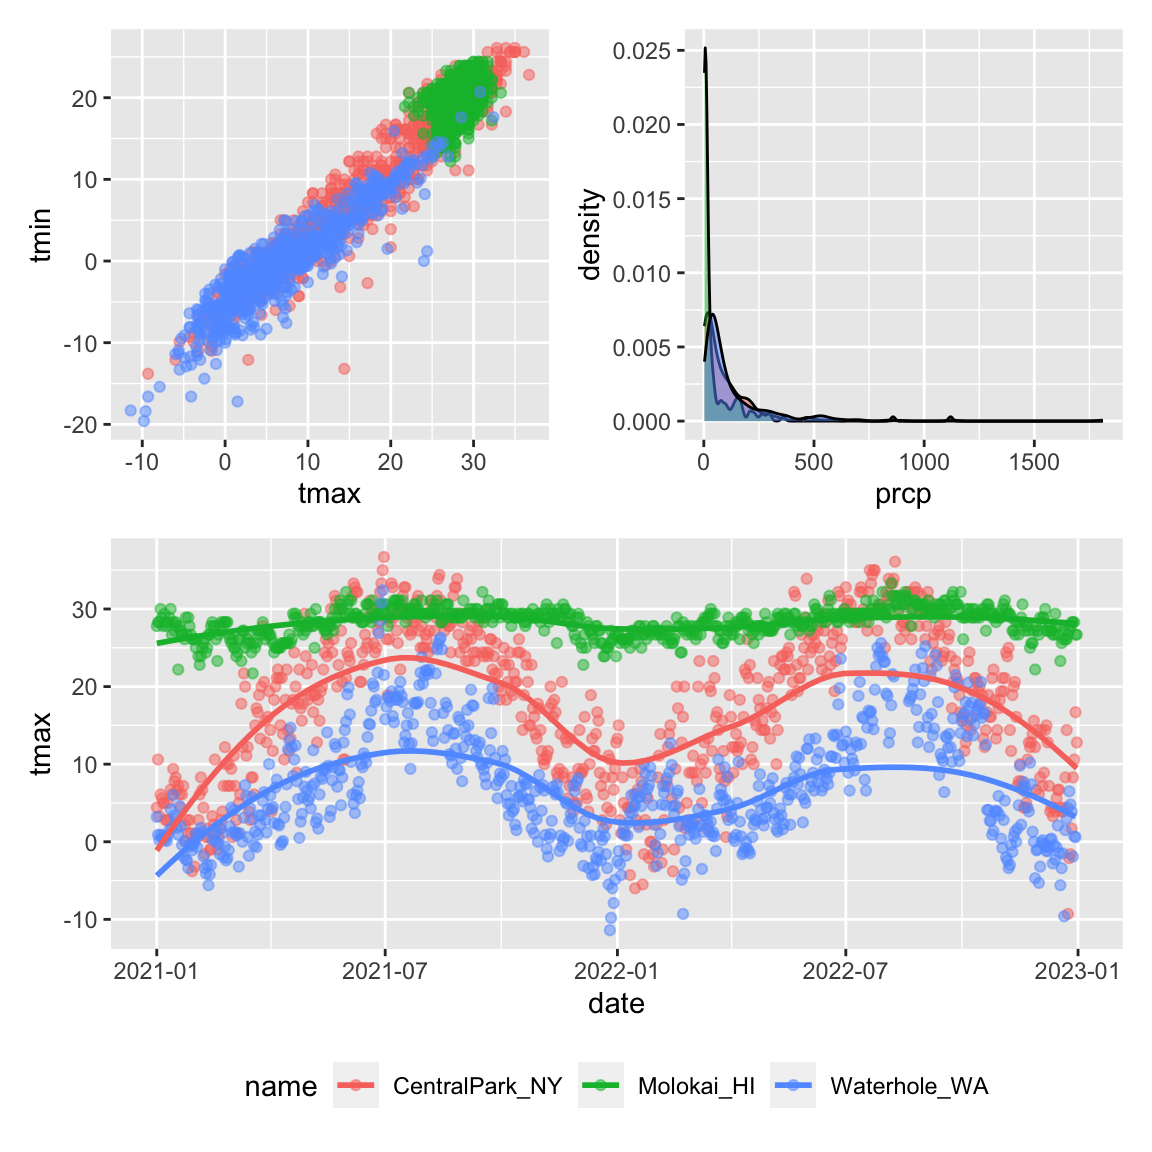
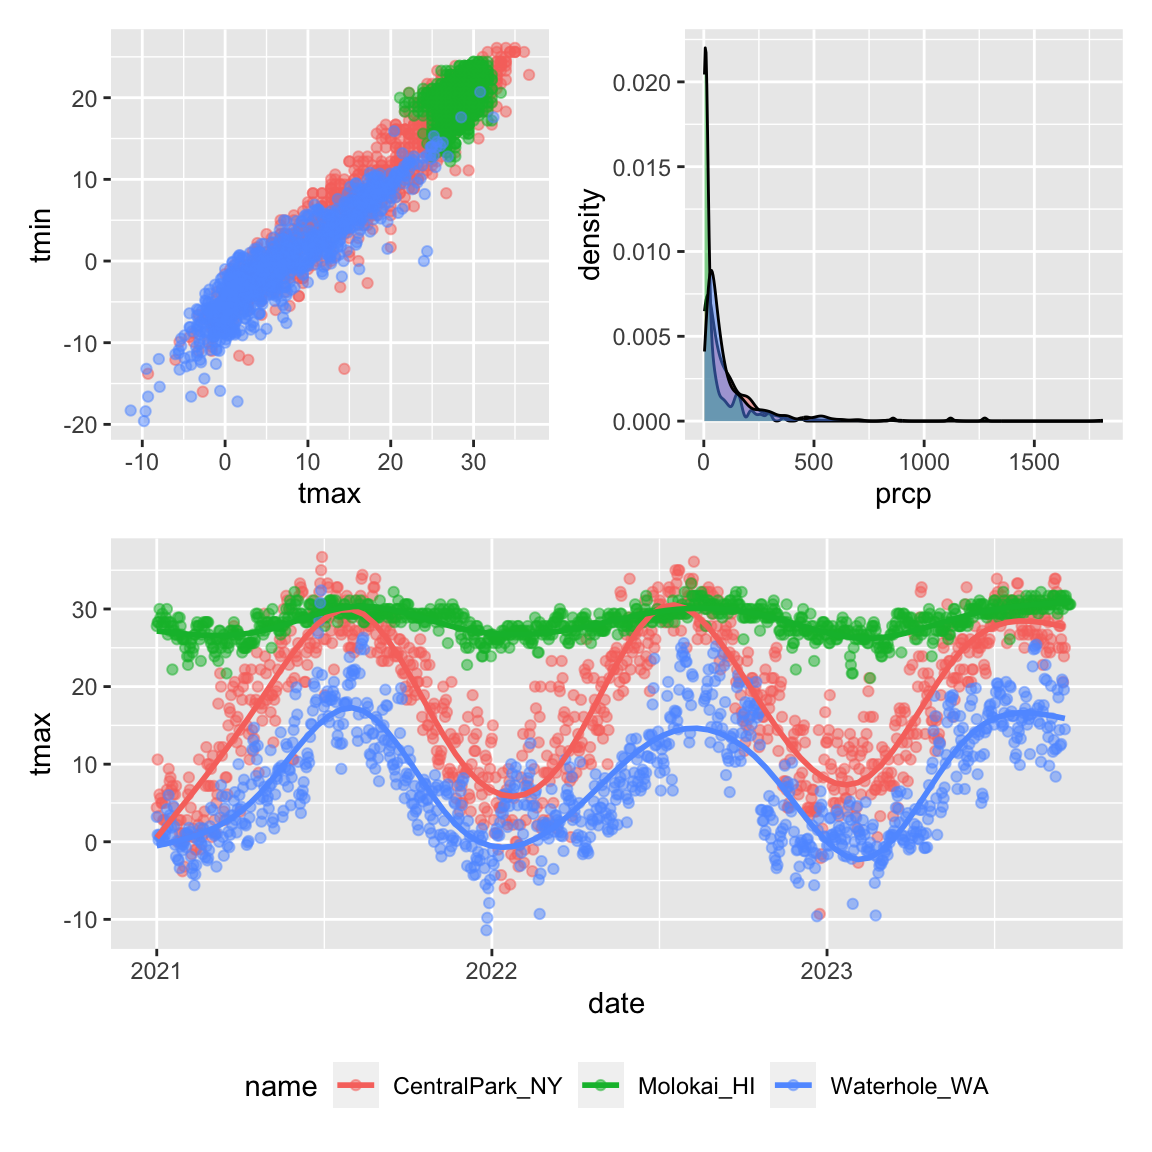
add color to labs()

diff --git a/visualization_pt2.html b/visualization_pt2.html
@@ -485,7 +485,7 @@ I’m also going to take advantage of features in the
 those next.</p>
 <pre class="r"><code>library(tidyverse)
 ## ── Attaching core tidyverse packages ──────────────────────── tidyverse 2.0.0 ──
-## ✔ dplyr     1.1.2     ✔ readr     2.1.4
+## ✔ dplyr     1.1.3     ✔ readr     2.1.4
 ## ✔ forcats   1.0.0     ✔ stringr   1.5.0
 ## ✔ ggplot2   3.4.3     ✔ tibble    3.2.1
 ## ✔ lubridate 1.9.2     ✔ tidyr     1.3.0
@@ -503,7 +503,7 @@ same code as in <a href="visualization_pt1.html">Visualization Pt
     c(&quot;USW00094728&quot;, &quot;USW00022534&quot;, &quot;USS0023B17S&quot;),
     var = c(&quot;PRCP&quot;, &quot;TMIN&quot;, &quot;TMAX&quot;), 
     date_min = &quot;2021-01-01&quot;,
-    date_max = &quot;2022-12-31&quot;) |&gt;
+    date_max = &quot;2023-12-31&quot;) |&gt;
   mutate(
     name = recode(
       id, 
@@ -517,17 +517,17 @@ same code as in <a href="visualization_pt1.html">Visualization Pt
 ##   method           from
 ##   print.cache_info httr
 ## using cached file: /Users/jeffgoldsmith/Library/Caches/org.R-project.R/R/rnoaa/noaa_ghcnd/USW00094728.dly
-## date created (size, mb): 2023-09-28 10:20:04.003054 (8.524)
+## date created (size, mb): 2023-09-19 15:41:55.07359 (8.524)
 ## file min/max dates: 1869-01-01 / 2023-09-30
 ## using cached file: /Users/jeffgoldsmith/Library/Caches/org.R-project.R/R/rnoaa/noaa_ghcnd/USW00022534.dly
-## date created (size, mb): 2023-09-28 10:20:09.885503 (3.83)
+## date created (size, mb): 2023-09-25 10:06:23.827176 (3.83)
 ## file min/max dates: 1949-10-01 / 2023-09-30
 ## using cached file: /Users/jeffgoldsmith/Library/Caches/org.R-project.R/R/rnoaa/noaa_ghcnd/USS0023B17S.dly
-## date created (size, mb): 2023-09-28 10:20:11.8066 (0.994)
+## date created (size, mb): 2023-09-19 15:42:03.139582 (0.994)
 ## file min/max dates: 1999-09-01 / 2023-09-30
 
 weather_df
-## # A tibble: 2,190 × 6
+## # A tibble: 3,009 × 6
 ##    name           id          date        prcp  tmax  tmin
 ##    &lt;chr&gt;          &lt;chr&gt;       &lt;date&gt;     &lt;dbl&gt; &lt;dbl&gt; &lt;dbl&gt;
 ##  1 CentralPark_NY USW00094728 2021-01-01   157   4.4   0.6
@@ -540,14 +540,14 @@ weather_df
 ##  8 CentralPark_NY USW00094728 2021-01-08     0   2.8  -2.7
 ##  9 CentralPark_NY USW00094728 2021-01-09     0   2.8  -4.3
 ## 10 CentralPark_NY USW00094728 2021-01-10     0   5    -1.6
-## # ℹ 2,180 more rows</code></pre>
+## # ℹ 2,999 more rows</code></pre>
 <p>As a starting point, let’s revisit the scatterplot of
 <code>tmax</code> against <code>tmin</code> made in <a
 href="visualization_pt1.html">Visualization Pt 1</a>.</p>
 <pre class="r"><code>weather_df |&gt; 
   ggplot(aes(x = tmin, y = tmax)) + 
   geom_point(aes(color = name), alpha = .5)
-## Warning: Removed 17 rows containing missing values (`geom_point()`).</code></pre>
+## Warning: Removed 51 rows containing missing values (`geom_point()`).</code></pre>
 <p><img src="visualization_pt2_files/figure-html/unnamed-chunk-3-1.png" width="90%" /></p>
 <div id="labels" class="section level3">
 <h3>Labels</h3>
@@ -563,9 +563,10 @@ labels, plot titles, and captions, all of which can be controlled using
     title = &quot;Temperature plot&quot;,
     x = &quot;Minimum daily temperature (C)&quot;,
     y = &quot;Maxiumum daily temperature (C)&quot;,
+    color = &quot;Location&quot;,
     caption = &quot;Data from the rnoaa package&quot;
   )
-## Warning: Removed 17 rows containing missing values (`geom_point()`).</code></pre>
+## Warning: Removed 51 rows containing missing values (`geom_point()`).</code></pre>
 <p><img src="visualization_pt2_files/figure-html/unnamed-chunk-4-1.png" width="90%" /></p>
 </div>
 <div id="scales" class="section level3">
@@ -586,11 +587,12 @@ in <code>scale_x_*</code> and <code>scale_y_*</code> where
     title = &quot;Temperature plot&quot;,
     x = &quot;Minimum daily temperature (C)&quot;,
     y = &quot;Maxiumum daily temperature (C)&quot;,
+    color = &quot;Location&quot;,
     caption = &quot;Data from the rnoaa package&quot;) + 
   scale_x_continuous(
     breaks = c(-15, 0, 15), 
     labels = c(&quot;-15º C&quot;, &quot;0&quot;, &quot;15&quot;))
-## Warning: Removed 17 rows containing missing values (`geom_point()`).</code></pre>
+## Warning: Removed 51 rows containing missing values (`geom_point()`).</code></pre>
 <p><img src="visualization_pt2_files/figure-html/unnamed-chunk-5-1.png" width="90%" /></p>
 <p>There are a variety of other <code>scale_x_*</code> and
 <code>scale_y_*</code> options – it can be helpful to know how and where
@@ -603,6 +605,7 @@ what I want.</p>
     title = &quot;Temperature plot&quot;,
     x = &quot;Minimum daily temperature (C)&quot;,
     y = &quot;Maxiumum daily temperature (C)&quot;,
+    color = &quot;Location&quot;,
     caption = &quot;Data from the rnoaa package&quot;) + 
   scale_x_continuous(
     breaks = c(-15, 0, 15), 
@@ -613,7 +616,7 @@ what I want.</p>
     position = &quot;right&quot;)
 ## Warning in self$trans$transform(x): NaNs produced
 ## Warning: Transformation introduced infinite values in continuous y-axis
-## Warning: Removed 142 rows containing missing values (`geom_point()`).</code></pre>
+## Warning: Removed 217 rows containing missing values (`geom_point()`).</code></pre>
 <p><img src="visualization_pt2_files/figure-html/unnamed-chunk-6-1.png" width="90%" /></p>
 <p>For many graph options there are several ways to produce the desired
 result, and you should feel free to use whichever is most convenient.
@@ -622,7 +625,7 @@ For instance, <code>scale_y_sqrt()</code> can be added to a
 <code>xlim()</code> can be used to control the plot limits in the X
 axis.</p>
 <p>Analogously to <code>scale_x_*</code> and <code>scale_y_*</code>,
-there are <code>scale</code>s corresponding to other aestheics. Some of
+there are <code>scale</code>s corresponding to other aesthetics. Some of
 the most common are used to control the <code>color</code> aesthetic.
 For example, arguments to <code>scale_color_hue()</code> control the
 color scale and the name in the plot legend.</p>
@@ -633,9 +636,10 @@ color scale and the name in the plot legend.</p>
     title = &quot;Temperature plot&quot;,
     x = &quot;Minimum daily temperature (C)&quot;,
     y = &quot;Maxiumum daily temperature (C)&quot;,
+    color = &quot;Location&quot;,
     caption = &quot;Data from the rnoaa package&quot;) + 
-  scale_color_hue(name = &quot;Location&quot;, h = c(100, 300))
-## Warning: Removed 17 rows containing missing values (`geom_point()`).</code></pre>
+  scale_color_hue(h = c(100, 300))
+## Warning: Removed 51 rows containing missing values (`geom_point()`).</code></pre>
 <p><img src="visualization_pt2_files/figure-html/unnamed-chunk-7-1.png" width="90%" /></p>
 <p>Trying to create your own color scheme usually doesn’t go well; I
 encourage you to use the <a
@@ -650,6 +654,7 @@ works nicely!</p>
     title = &quot;Temperature plot&quot;,
     x = &quot;Minimum daily temperature (C)&quot;,
     y = &quot;Maxiumum daily temperature (C)&quot;,
+    color = &quot;Location&quot;,
     caption = &quot;Data from the rnoaa package&quot;
   ) + 
   viridis::scale_color_viridis(
@@ -658,7 +663,7 @@ works nicely!</p>
   )
 
 ggp_temp_plot
-## Warning: Removed 17 rows containing missing values (`geom_point()`).</code></pre>
+## Warning: Removed 51 rows containing missing values (`geom_point()`).</code></pre>
 <p><img src="visualization_pt2_files/figure-html/unnamed-chunk-8-1.png" width="90%" /></p>
 <p>We used <code>discrete = TRUE</code> because the <code>color</code>
 aesthetic is mapped to a discrete variable. In other cases (for example,
@@ -680,7 +685,7 @@ bottom to ensure the graphic takes up the available left-to-right
 space.</p>
 <pre class="r"><code>ggp_temp_plot + 
   theme(legend.position = &quot;bottom&quot;)
-## Warning: Removed 17 rows containing missing values (`geom_point()`).</code></pre>
+## Warning: Removed 51 rows containing missing values (`geom_point()`).</code></pre>
 <p><img src="visualization_pt2_files/figure-html/unnamed-chunk-9-1.png" width="90%" /></p>
 <p>Quick tip: <code>legend.position = "none"</code> will remove the
 legend. This is helpful when multiple plots use the same color scheme or
@@ -691,20 +696,20 @@ recommend using a built-in theme. By default this is
 <pre class="r"><code>ggp_temp_plot + 
   theme_bw() + 
   theme(legend.position = &quot;bottom&quot;)
-## Warning: Removed 17 rows containing missing values (`geom_point()`).</code></pre>
+## Warning: Removed 51 rows containing missing values (`geom_point()`).</code></pre>
 <p><img src="visualization_pt2_files/figure-html/unnamed-chunk-10-1.png" width="90%" /></p>
 <p>… and here’s <code>theme_classic()</code>:</p>
 <pre class="r"><code>ggp_temp_plot + 
   theme_classic() + 
   theme(legend.position = &quot;bottom&quot;)
-## Warning: Removed 17 rows containing missing values (`geom_point()`).</code></pre>
+## Warning: Removed 51 rows containing missing values (`geom_point()`).</code></pre>
 <p><img src="visualization_pt2_files/figure-html/unnamed-chunk-11-1.png" width="90%" /></p>
 <p>… and, for some reason, here’s the Excel 2003 theme from <a
 href="https://jrnold.github.io/ggthemes/"><code>ggthemes</code></a>:</p>
 <pre class="r"><code>ggp_temp_plot + 
   ggthemes::theme_excel() + 
   theme(legend.position = &quot;bottom&quot;)
-## Warning: Removed 17 rows containing missing values (`geom_point()`).</code></pre>
+## Warning: Removed 51 rows containing missing values (`geom_point()`).</code></pre>
 <p><img src="visualization_pt2_files/figure-html/unnamed-chunk-12-1.png" width="90%" /></p>
 <p>Don’t use the Excel 2003 theme (the first two are fine, and
 <code>ggthemes</code> has other very nice themes as well).</p>
@@ -729,14 +734,15 @@ Solution
     title = &quot;Temperature plot&quot;,
     x = &quot;Date&quot;,
     y = &quot;Maxiumum daily temperature (C)&quot;,
+    color = &quot;Location&quot;,
     caption = &quot;Data from the rnoaa package&quot;
   ) + 
   viridis::scale_color_viridis(discrete = TRUE) + 
   theme_minimal() + 
   theme(legend.position = &quot;bottom&quot;)
-## `geom_smooth()` using method = &#39;loess&#39; and formula = &#39;y ~ x&#39;
-## Warning: Removed 17 rows containing non-finite values (`stat_smooth()`).
-## Warning: Removed 19 rows containing missing values (`geom_point()`).</code></pre>
+## `geom_smooth()` using method = &#39;gam&#39; and formula = &#39;y ~ s(x, bs = &quot;cs&quot;)&#39;
+## Warning: Removed 51 rows containing non-finite values (`stat_smooth()`).
+## Warning: Removed 54 rows containing missing values (`geom_point()`).</code></pre>
 <p><img src="visualization_pt2_files/figure-html/unnamed-chunk-13-1.png" width="90%" /></p>
 </details>
 </div>
@@ -789,8 +795,9 @@ molokai_df =
 
 ggplot(data = molokai_df, aes(x = date, y = tmax, color = name)) + 
   geom_point() + 
-  geom_line(data = central_park_df)
-## Warning: Removed 1 rows containing missing values (`geom_point()`).</code></pre>
+  geom_line(data = central_park_df) 
+## Warning: Removed 8 rows containing missing values (`geom_point()`).
+## Warning: Removed 13 rows containing missing values (`geom_line()`).</code></pre>
 <p><img src="visualization_pt2_files/figure-html/unnamed-chunk-15-1.png" width="90%" /></p>
 <p>More realistically, it’s sometimes necessary to overlay data
 summaries on a plot of the complete data. Depending on the setting, one
@@ -831,10 +838,10 @@ tmax_date_p =
   theme(legend.position = &quot;bottom&quot;)
 
 (tmax_tmin_p + prcp_dens_p) / tmax_date_p
-## Warning: Removed 17 rows containing missing values (`geom_point()`).
-## `geom_smooth()` using method = &#39;loess&#39; and formula = &#39;y ~ x&#39;
-## Warning: Removed 17 rows containing non-finite values (`stat_smooth()`).
-## Removed 17 rows containing missing values (`geom_point()`).</code></pre>
+## Warning: Removed 51 rows containing missing values (`geom_point()`).
+## `geom_smooth()` using method = &#39;gam&#39; and formula = &#39;y ~ s(x, bs = &quot;cs&quot;)&#39;
+## Warning: Removed 51 rows containing non-finite values (`stat_smooth()`).
+## Removed 51 rows containing missing values (`geom_point()`).</code></pre>
 <p><img src="visualization_pt2_files/figure-html/unnamed-chunk-16-1.png" width="90%" /></p>
 <p>The package is already very helpful but is under active development –
 some features may change or be added over time – so check the package
@@ -864,7 +871,7 @@ variable using <code>forcats::fct_reorder</code>.</p>
   ggplot(aes(x = name, y = tmax)) + 
   geom_violin(aes(fill = name), color = &quot;blue&quot;, alpha = .5) + 
   theme(legend.position = &quot;bottom&quot;)
-## Warning: Removed 17 rows containing non-finite values (`stat_ydensity()`).</code></pre>
+## Warning: Removed 51 rows containing non-finite values (`stat_ydensity()`).</code></pre>
 <p><img src="visualization_pt2_files/figure-html/unnamed-chunk-17-1.png" width="90%" /></p>
 <p>A second example reorders <code>name</code> according to
 <code>tmax</code> values in each name:</p>
@@ -876,10 +883,10 @@ variable using <code>forcats::fct_reorder</code>.</p>
 ## Warning: There was 1 warning in `mutate()`.
 ## ℹ In argument: `name = forcats::fct_reorder(name, tmax)`.
 ## Caused by warning:
-## ! `fct_reorder()` removing 17 missing values.
+## ! `fct_reorder()` removing 51 missing values.
 ## ℹ Use `.na_rm = TRUE` to silence this message.
 ## ℹ Use `.na_rm = FALSE` to preserve NAs.
-## Warning: Removed 17 rows containing non-finite values (`stat_ydensity()`).</code></pre>
+## Warning: Removed 51 rows containing non-finite values (`stat_ydensity()`).</code></pre>
 <p><img src="visualization_pt2_files/figure-html/unnamed-chunk-18-1.png" width="90%" /></p>
 <p>We’ll learn more about the <a
 href="http://forcats.tidyverse.org/index.html"><code>forcats</code></a>
@@ -907,7 +914,7 @@ directly:</p>
   geom_density(alpha = .5) + 
   facet_grid(~name) + 
   viridis::scale_fill_viridis(discrete = TRUE)
-## Warning: Removed 34 rows containing non-finite values (`stat_density()`).</code></pre>
+## Warning: Removed 102 rows containing non-finite values (`stat_density()`).</code></pre>
 <p><img src="visualization_pt2_files/figure-html/unnamed-chunk-19-1.png" width="90%" /></p>
 <p>Our emphasis on data tidiness in previous examples is helpful in
 visualization. The code below imports and tidies the PULSE data, and
